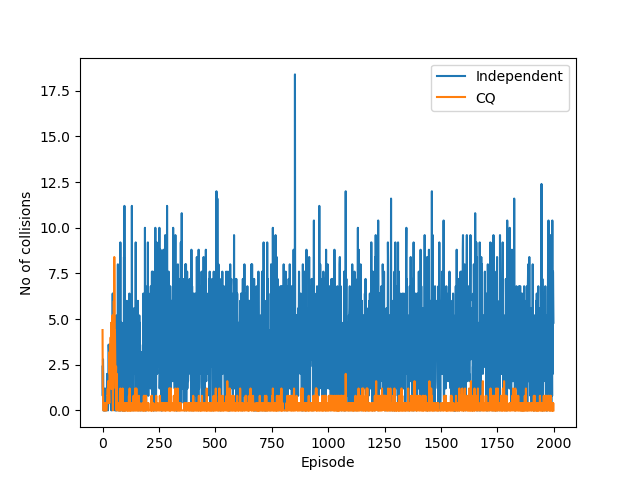
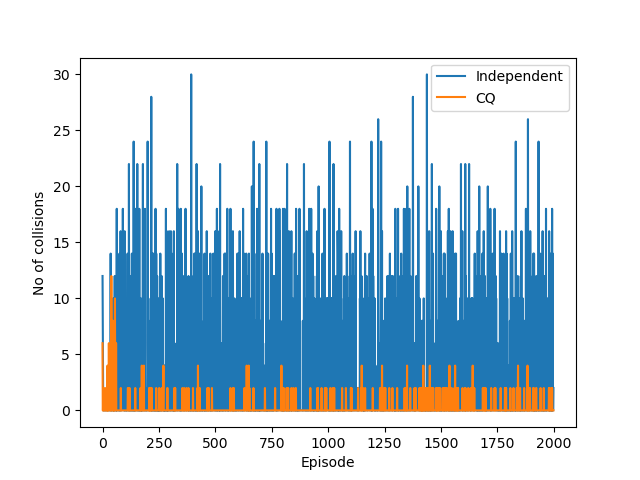
Plot number of states over time

diff --git a/cq/cqlearners.py b/cq/cqlearners.py
@@ -52,6 +52,9 @@ class CQLearner:
         """Reset the state between episodes"""
         self.global_state = frozenset(self.initial_state.items())
         self.local_state = self.initial_state[self.name]
+
+    def get_state_space_size(self):
+        return len(self.local_q_table) + len(self.coordination_states_confidence)
             
     def __select_action_with_q_table(self, q_table, state):
         """Selects an action using the given Q table and state.
@@ -94,13 +97,13 @@ class CQLearner:
         conflict_detected = self.__is_conflict_detected(old_local_state, self.previous_action)
         reward_lower = self.__is_reward_maybe_less_than_average(old_local_state, self.previous_action, reward)
         if conflict_detected and reward_lower and old_global_state not in self.coordination_states_confidence.keys():
-            self.coordination_states_confidence[old_global_state] = 50
+            self.coordination_states_confidence[old_global_state] = 30
     
     def __increment_coordination_confidence(self):
         for state in self.coordination_states_confidence:
             state_dict = dict(state)
             if state_dict[self.name] == self.local_state:
-                self.coordination_states_confidence[state] += 20
+                self.coordination_states_confidence[state] += 2
                 
     def __decrement_coordination_confidence(self):
         for state in self.coordination_states_confidence:

diff --git a/cq/experiment_results.py b/cq/experiment_results.py
@@ -1,3 +1,5 @@
+import numpy
+
 class ExperimentResults:
 
     def get_average_collisions(self):
@@ -13,15 +15,30 @@ class ExperimentResults:
                             num_collisions += 1
             average_collisions.append(num_collisions / float(num_trials))
         return average_collisions
+
+    def get_averaged_num_states(self):
+        average_num_states = {}
+        for agent_name, state_record in self.num_states.items():
+            average = numpy.mean(numpy.array(state_record), axis=0)
+            average_num_states[agent_name] = average
+        return average_num_states            
     
     def start_new_trial(self):
         self.results.append([])
-
+        for agent_num_states in self.num_states.values():
+            agent_num_states.append([])
+        
     def start_new_episode(self):
         self.results[-1].append([])
 
     def record(self, action_results):
         self.results[-1][-1].append(action_results)
+
+    def record_states(self, agent_name, num_states):
+        self.num_states[agent_name][-1].append(num_states)
     
-    def __init__(self):
+    def __init__(self, agent_names):
         self.results = []
+        self.num_states = {}
+        for agent_name in agent_names:
+            self.num_states[agent_name] = []

diff --git a/cq/__main__.py b/cq/__main__.py
@@ -5,22 +5,28 @@ from .cqlearners import CQLearner
 from .plot import Plot
 
 def main(args=None):
-    run_basic_grid()
+#    run_basic_grid()
     run_tunnel_to_goal()
 
 def run_tunnel_to_goal():
     gridworld = GridWorld.tunnel_to_goal()
-    runner = Runner(2000, 5, gridworld)
+    runner = Runner(2000, 1, gridworld)
     plot = Plot("tunnel")
     agent_creator = AgentCreator((0,0), (0,4))
+    independent_results = runner.run(agent_creator.create_independent_agents)
+    cq_results = runner.run(agent_creator.create_cq_agents)
     plot.collisions_over_time_plot({
-        "Independent": runner.run(agent_creator.create_independent_agents),
-        "CQ": runner.run(agent_creator.create_cq_agents)
+        "Independent": independent_results,
+        "CQ": cq_results
+    })
+    plot.states_over_time_plot({
+        "Independent": independent_results,
+        "CQ": cq_results
     })
     
 def run_basic_grid():
     gridworld = GridWorld.basic_grid()
-    runner = Runner(2000, 5, gridworld)
+    runner = Runner(2000, 2, gridworld)
     plot = Plot("basic")
     agent_creator = AgentCreator((0,2), (2,2))
     plot.collisions_over_time_plot({

diff --git a/cq/runner.py b/cq/runner.py
@@ -9,7 +9,8 @@ class Runner:
 
     def run(self, agent_creator):
         """Run the experiment with the given number of trials and episodes"""
-        experiment_results = ExperimentResults()
+        agent_names = list(map(lambda agent: agent.name, agent_creator()))
+        experiment_results = ExperimentResults(agent_names)
         for trial in range(self.num_trials):
             experiment_results.start_new_trial()
             # New agents are created for each trial, but reused between episodes
@@ -24,6 +25,7 @@ class Runner:
         """
         for agent in agents:
             agent.reset_state()
+            experiment_results.record_states(agent.name, agent.get_state_space_size())
         experiment_results.start_new_episode()
         # active_agents tracks which agents haven't yet reached their goal
         # `list` is used to make a shallow copy

diff --git a/cq/plot.py b/cq/plot.py
@@ -12,6 +12,16 @@ class Plot:
         plt.ylabel("No of collisions")
         plt.legend()
         plt.savefig(f"plots/{self.file_prefix}-collisions-over-time.png")
+
+    def states_over_time_plot(self, results):
+        plt.figure()
+        for label, result in results.items():
+            for agent,result in result.get_averaged_num_states().items():
+                plt.plot(result, label=f"{label} - {agent}")
+        plt.xlabel("Episode")
+        plt.ylabel("No of states")
+        plt.legend()
+        plt.savefig(f"plots/{self.file_prefix}-num-states-over-time.png")
     
     def __init__(self, file_prefix):
         self.file_prefix = file_prefix

diff --git a/cq/independent.py b/cq/independent.py
@@ -41,6 +41,9 @@ class IndependentAgent:
     def reset_state(self):
         """Reset the state between episodes"""
         self.local_state = self.initial_state
+
+    def get_state_space_size(self):
+        return len(self.q_table)
         
     def __select_greedy_action(self):
         """Greedily selects an action based on the current Q-table"""
